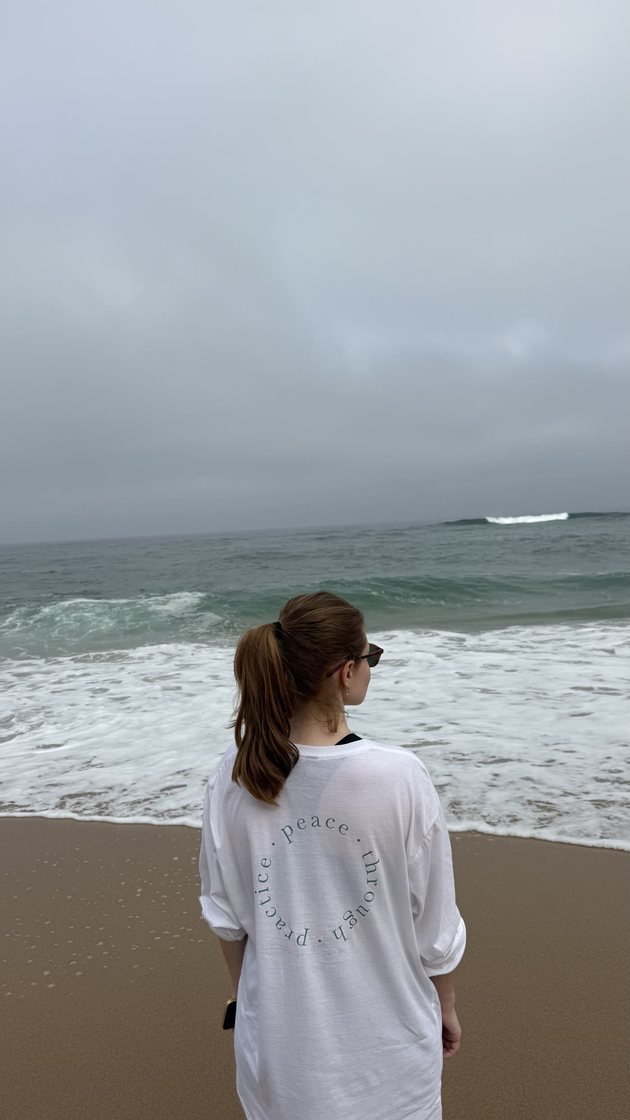
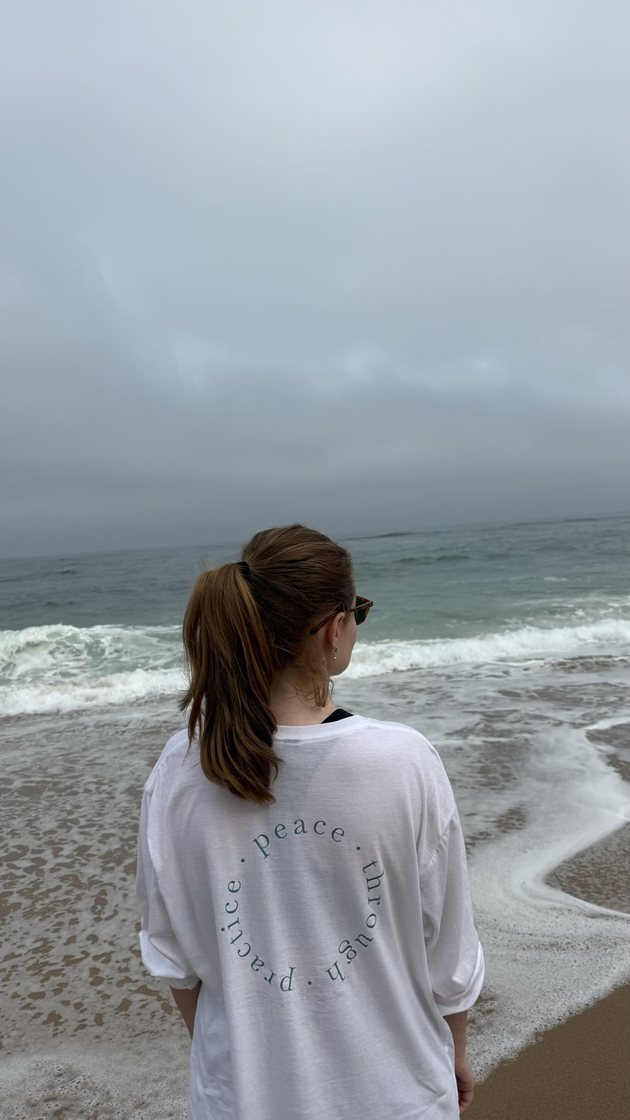
Give the words of the drop a page of their own
Moved into the hero, the sentence that says why this thing exists turned
into an ordinary paragraph sitting next to a photograph: eighteen point
body text, four lines, nothing to make you slow down. It now stands on its
own between the hero and the range, centred, in twenty-eight point serif,
with air around it. The hero keeps the name, the date and the button.

The photo strip gets arrows, which also needed the frames to declare their
size: until the images arrived the browser measured the strip as empty and
switched the forward arrow off. The overcast frame is gone, and the two
photographs where the print colour is unmistakable moved into the cards they
belong to, sky and terracotta into dusty pink, sky and green into sage.

Claude-Session: https://claude.ai/code/session_01WcVUjmyndb5iyNbkciRmSY

diff --git a/merch.html b/merch.html
@@ -116,7 +116,8 @@
 
   /* ─ утверждение ─ */
   .statement{text-align:center;}
-  .statement p{font-family:Georgia,serif; font-size:25px; line-height:1.5; max-width:720px; margin:0 auto;}
+  .statement{padding:66px 0 62px;}
+  .statement p{font-family:Georgia,serif; font-size:28px; line-height:1.55; max-width:780px; margin:0 auto;}
 
   /* ─ как это работает ─ */
   .steps{display:grid; grid-template-columns:repeat(3,1fr); gap:18px; max-width:860px;}
@@ -158,13 +159,20 @@
   .linkbtn:hover{color:var(--soft);}
 
   /* ─ лента атмосферных кадров ─
-     листается вбок пальцем или трекпадом. первый кадр выровнен по колонке
-     сайта, а лента уезжает за край: так видно, что дальше есть ещё */
-  .feed{padding:20px 0 8px;}
+     листается вбок. первый кадр выровнен по колонке сайта, а лента уезжает
+     за край: так видно, что дальше есть ещё */
+  .feed{position:relative; padding:20px 0 8px;}
   .feed__track{display:flex; gap:14px; overflow-x:auto; scroll-snap-type:x proximity;
     padding:0 max(24px, calc((100% - 960px) / 2)); scrollbar-width:none; -ms-overflow-style:none;}
   .feed__track::-webkit-scrollbar{display:none;}
   .feed__track img{flex:none; height:560px; width:auto; display:block; scroll-snap-align:center;}
+  .feed__nav{position:absolute; top:50%; transform:translateY(-50%); z-index:2;
+    width:44px; height:44px; padding:0; cursor:pointer; border:1px solid var(--line);
+    background:rgba(251,250,248,.94); color:var(--ink); font:inherit; font-size:20px; line-height:1; transition:.2s;}
+  .feed__nav:hover{border-color:var(--ink);}
+  .feed__nav[disabled]{opacity:.2; cursor:default; border-color:var(--line);}
+  .feed__nav--prev{left:16px;}
+  .feed__nav--next{right:16px;}
 
   /* ─ окно с размерами ─ */
   .modal .modal__box--wide{max-width:960px;}
@@ -260,7 +268,7 @@
     .pgrid--1 .pcard{display:flex;}
     .pgrid--1 .pcard__img,.pgrid--1 .pcard__ph{min-height:0; aspect-ratio:4/5; border-right:none; border-bottom:1px solid var(--line);}
     .pgrid--1 .pcard__body{padding:26px 26px 28px;}
-    .statement p{font-size:21px;}
+    .statement p{font-size:22px;}
     .drawer{width:100%; border-left:none;}
   }
 </style>
@@ -298,16 +306,21 @@
      текст дропа стоит первым, как на последней странице спецификации -->
 <header class="phero"><div class="wrap">
   <div>
-  <div class="kicker">soft power merch · новый дроп</div>
-  <h1>peace<br>through practice</h1>
-  <p class="lead">этот лонгслив будет обнимать тебя всю осень. каждый день он будет напоминать тебе о том, что ежедневная практика и есть верный путь к твоему внутреннему спокойствию и устойчивости.</p>
-  <p class="until">предзаказ открыт до 5 сентября</p>
-  <a class="btn" href="#shop">предзаказ →</a>
+    <div class="kicker">soft power merch · новый дроп</div>
+    <h1>peace<br>through practice</h1>
+    <p class="until">предзаказ открыт до 5 сентября</p>
+    <a class="btn" href="#shop">предзаказ →</a>
   </div>
+
 
   <!-- ФОТО В ШАПКУ: чтобы поменять снимок, впиши другое имя файла из images/ -->
   <div><img class="phero__img" src="images/merch-longsleeve-hero.jpg" alt="лонгслив peace through practice"></div>
 </div></header>
+
+<!-- ── слова дропа: они и есть причина, по которой вещь существует ── -->
+<section class="statement"><div class="wrap">
+  <p>этот лонгслив будет обнимать тебя всю осень. каждый день он будет напоминать тебе о том, что ежедневная практика и есть верный путь к твоему внутреннему спокойствию и устойчивости.</p>
+</div></section>
 
 <div class="wrap"><hr class="hr"></div>
 
@@ -323,26 +336,27 @@
 <div class="wrap"><hr class="hr"></div>
 
 <!-- ── лента атмосферных кадров ──
-     листается вбок. чтобы добавить снимок, положи файл в images/
-     и допиши сюда строку: порядок в разметке и есть порядок в ленте -->
+     листается вбок пальцем, трекпадом или стрелками. чтобы добавить снимок,
+     положи файл в images/ и допиши сюда строку: порядок здесь и есть порядок в ленте -->
 <section class="feed" aria-label="фотографии дропа">
-  <div class="feed__track">
-  <img src="images/merch-feed-01.jpg" alt="лонгслив на лесной дороге" loading="lazy">
-  <img src="images/merch-feed-02.jpg" alt="лонгслив на берегу океана" loading="lazy">
-  <img src="images/merch-feed-03.jpg" alt="манжет с вышивкой soft power" loading="lazy">
-  <img src="images/merch-feed-04.jpg" alt="рукав лонгслива у лица, скала позади" loading="lazy">
-  <img src="images/merch-feed-05.jpg" alt="лонгслив у мшистого камня" loading="lazy">
-  <img src="images/merch-feed-06.jpg" alt="печать на фоне неба" loading="lazy">
-  <img src="images/merch-feed-07.jpg" alt="берег между скал" loading="lazy">
-  <img src="images/merch-feed-08.jpg" alt="печать peace through practice на просвет" loading="lazy">
-  <img src="images/merch-feed-09.jpg" alt="манжет через плечо" loading="lazy">
-  <img src="images/merch-feed-10.jpg" alt="печать крупным планом" loading="lazy">
-  <img src="images/merch-feed-11.jpg" alt="лонгслив, руки в стороны" loading="lazy">
-  <img src="images/merch-feed-12.jpg" alt="ткань и манжет на камне" loading="lazy">
-  <img src="images/merch-feed-13.jpg" alt="лонгслив на рассветном берегу" loading="lazy">
-  <img src="images/merch-feed-14.jpg" alt="пасмурный океан" loading="lazy">
-  <img src="images/merch-feed-15.jpg" alt="лонгслив со спины у воды" loading="lazy">
+  <div class="feed__track" id="feedTrack">
+    <img src="images/merch-feed-01.jpg" alt="лонгслив на лесной дороге" width="630" height="1120" loading="lazy">
+    <img src="images/merch-feed-02.jpg" alt="лонгслив на берегу океана" width="630" height="1120" loading="lazy">
+    <img src="images/merch-feed-03.jpg" alt="манжет с вышивкой soft power" width="630" height="1120" loading="lazy">
+    <img src="images/merch-feed-04.jpg" alt="рукав лонгслива у лица, скала позади" width="630" height="1120" loading="lazy">
+    <img src="images/merch-feed-05.jpg" alt="лонгслив у мшистого камня" width="630" height="1120" loading="lazy">
+    <img src="images/merch-feed-06.jpg" alt="печать на фоне неба" width="630" height="1120" loading="lazy">
+    <img src="images/merch-feed-07.jpg" alt="берег между скал" width="630" height="1120" loading="lazy">
+    <img src="images/merch-feed-08.jpg" alt="печать peace through practice на просвет" width="630" height="1120" loading="lazy">
+    <img src="images/merch-feed-09.jpg" alt="манжет через плечо" width="630" height="1120" loading="lazy">
+    <img src="images/merch-feed-10.jpg" alt="печать крупным планом" width="630" height="1120" loading="lazy">
+    <img src="images/merch-feed-11.jpg" alt="лонгслив, руки в стороны" width="630" height="1120" loading="lazy">
+    <img src="images/merch-feed-12.jpg" alt="ткань и манжет на камне" width="630" height="1120" loading="lazy">
+    <img src="images/merch-feed-13.jpg" alt="лонгслив на рассветном берегу" width="630" height="1120" loading="lazy">
+    <img src="images/merch-feed-14.jpg" alt="лонгслив со спины у воды" width="630" height="1120" loading="lazy">
   </div>
+  <button class="feed__nav feed__nav--prev" id="feedPrev" type="button" aria-label="назад">‹</button>
+  <button class="feed__nav feed__nav--next" id="feedNext" type="button" aria-label="вперёд">›</button>
 </section>
 
 <!-- ── условия предзаказа ── -->
@@ -443,6 +457,25 @@
     closeBtn.addEventListener("click", hideMenu);
     mnav.querySelectorAll("a").forEach(function(a){ a.addEventListener("click", hideMenu); });
     document.addEventListener("keydown", function(e){ if(e.key==="Escape") hideMenu(); });
+  })();
+
+
+  /* стрелки у ленты фотографий: двигают её почти на экран и гаснут по краям */
+  (function(){
+    var track=document.getElementById('feedTrack'),
+        prev=document.getElementById('feedPrev'), next=document.getElementById('feedNext');
+    if(!track||!prev||!next) return;
+    function step(){ return Math.round(track.clientWidth * 0.8); }
+    function edges(){
+      prev.disabled = track.scrollLeft < 8;
+      next.disabled = track.scrollLeft > track.scrollWidth - track.clientWidth - 8;
+    }
+    prev.addEventListener('click', function(){ track.scrollBy({left:-step(), behavior:'smooth'}); });
+    next.addEventListener('click', function(){ track.scrollBy({left: step(), behavior:'smooth'}); });
+    track.addEventListener('scroll', edges);
+    window.addEventListener('resize', edges);
+    window.addEventListener('load', edges);   /* картинки могли ещё не приехать */
+    edges();
   })();
 
   /* окно с размерами: открывается ссылкой в витрине */

diff --git a/merch-en.html b/merch-en.html
@@ -116,7 +116,8 @@
 
   /* ─ утверждение ─ */
   .statement{text-align:center;}
-  .statement p{font-family:Georgia,serif; font-size:25px; line-height:1.5; max-width:720px; margin:0 auto;}
+  .statement{padding:66px 0 62px;}
+  .statement p{font-family:Georgia,serif; font-size:28px; line-height:1.55; max-width:780px; margin:0 auto;}
 
   /* ─ как это работает ─ */
   .steps{display:grid; grid-template-columns:repeat(3,1fr); gap:18px; max-width:860px;}
@@ -158,13 +159,20 @@
   .linkbtn:hover{color:var(--soft);}
 
   /* ─ лента атмосферных кадров ─
-     листается вбок пальцем или трекпадом. первый кадр выровнен по колонке
-     сайта, а лента уезжает за край: так видно, что дальше есть ещё */
-  .feed{padding:20px 0 8px;}
+     листается вбок. первый кадр выровнен по колонке сайта, а лента уезжает
+     за край: так видно, что дальше есть ещё */
+  .feed{position:relative; padding:20px 0 8px;}
   .feed__track{display:flex; gap:14px; overflow-x:auto; scroll-snap-type:x proximity;
     padding:0 max(24px, calc((100% - 960px) / 2)); scrollbar-width:none; -ms-overflow-style:none;}
   .feed__track::-webkit-scrollbar{display:none;}
   .feed__track img{flex:none; height:560px; width:auto; display:block; scroll-snap-align:center;}
+  .feed__nav{position:absolute; top:50%; transform:translateY(-50%); z-index:2;
+    width:44px; height:44px; padding:0; cursor:pointer; border:1px solid var(--line);
+    background:rgba(251,250,248,.94); color:var(--ink); font:inherit; font-size:20px; line-height:1; transition:.2s;}
+  .feed__nav:hover{border-color:var(--ink);}
+  .feed__nav[disabled]{opacity:.2; cursor:default; border-color:var(--line);}
+  .feed__nav--prev{left:16px;}
+  .feed__nav--next{right:16px;}
 
   /* ─ окно с размерами ─ */
   .modal .modal__box--wide{max-width:960px;}
@@ -260,7 +268,7 @@
     .pgrid--1 .pcard{display:flex;}
     .pgrid--1 .pcard__img,.pgrid--1 .pcard__ph{min-height:0; aspect-ratio:4/5; border-right:none; border-bottom:1px solid var(--line);}
     .pgrid--1 .pcard__body{padding:26px 26px 28px;}
-    .statement p{font-size:21px;}
+    .statement p{font-size:22px;}
     .drawer{width:100%; border-left:none;}
   }
 </style>
@@ -296,16 +304,21 @@
 <!-- ── hero ── -->
 <header class="phero"><div class="wrap">
   <div>
-  <div class="kicker">soft power merch · new drop</div>
-  <h1>peace<br>through practice</h1>
-  <p class="lead">this long sleeve will hold you through the whole autumn. every day it will remind you that a daily practice is the surest way to your own calm and steadiness.</p>
-  <p class="until">pre-order is open till 5 september</p>
-  <a class="btn" href="#shop">pre-order →</a>
+    <div class="kicker">soft power merch · new drop</div>
+    <h1>peace<br>through practice</h1>
+    <p class="until">pre-order is open till 5 september</p>
+    <a class="btn" href="#shop">pre-order →</a>
   </div>
+
 
   <!-- ФОТО В ШАПКУ: чтобы поменять снимок, впиши другое имя файла из images/ -->
   <div><img class="phero__img" src="images/merch-longsleeve-hero.jpg" alt="peace through practice long sleeve"></div>
 </div></header>
+
+<!-- ── слова дропа ── -->
+<section class="statement"><div class="wrap">
+  <p>this long sleeve will hold you through the whole autumn. every day it will remind you that a daily practice is the surest way to your own calm and steadiness.</p>
+</div></section>
 
 <div class="wrap"><hr class="hr"></div>
 
@@ -319,26 +332,27 @@
 <div class="wrap"><hr class="hr"></div>
 
 <!-- ── лента атмосферных кадров ──
-     листается вбок. чтобы добавить снимок, положи файл в images/
-     и допиши сюда строку: порядок в разметке и есть порядок в ленте -->
+     листается вбок пальцем, трекпадом или стрелками. чтобы добавить снимок,
+     положи файл в images/ и допиши сюда строку: порядок здесь и есть порядок в ленте -->
 <section class="feed" aria-label="photos of the drop">
-  <div class="feed__track">
-  <img src="images/merch-feed-01.jpg" alt="the long sleeve on a forest path" loading="lazy">
-  <img src="images/merch-feed-02.jpg" alt="the long sleeve by the ocean" loading="lazy">
-  <img src="images/merch-feed-03.jpg" alt="the cuff with the soft power embroidery" loading="lazy">
-  <img src="images/merch-feed-04.jpg" alt="a sleeve held up, a cliff behind" loading="lazy">
-  <img src="images/merch-feed-05.jpg" alt="the long sleeve by a mossy rock" loading="lazy">
-  <img src="images/merch-feed-06.jpg" alt="the print against the sky" loading="lazy">
-  <img src="images/merch-feed-07.jpg" alt="the shore between the rocks" loading="lazy">
-  <img src="images/merch-feed-08.jpg" alt="the peace through practice print held to the light" loading="lazy">
-  <img src="images/merch-feed-09.jpg" alt="the cuff over a shoulder" loading="lazy">
-  <img src="images/merch-feed-10.jpg" alt="the print up close" loading="lazy">
-  <img src="images/merch-feed-11.jpg" alt="the long sleeve, arms wide" loading="lazy">
-  <img src="images/merch-feed-12.jpg" alt="the fabric and the cuff on a rock" loading="lazy">
-  <img src="images/merch-feed-13.jpg" alt="the long sleeve on the shore at dawn" loading="lazy">
-  <img src="images/merch-feed-14.jpg" alt="an overcast ocean" loading="lazy">
-  <img src="images/merch-feed-15.jpg" alt="the long sleeve from behind by the water" loading="lazy">
+  <div class="feed__track" id="feedTrack">
+    <img src="images/merch-feed-01.jpg" alt="the long sleeve on a forest path" width="630" height="1120" loading="lazy">
+    <img src="images/merch-feed-02.jpg" alt="the long sleeve by the ocean" width="630" height="1120" loading="lazy">
+    <img src="images/merch-feed-03.jpg" alt="the cuff with the soft power embroidery" width="630" height="1120" loading="lazy">
+    <img src="images/merch-feed-04.jpg" alt="a sleeve held up, a cliff behind" width="630" height="1120" loading="lazy">
+    <img src="images/merch-feed-05.jpg" alt="the long sleeve by a mossy rock" width="630" height="1120" loading="lazy">
+    <img src="images/merch-feed-06.jpg" alt="the print against the sky" width="630" height="1120" loading="lazy">
+    <img src="images/merch-feed-07.jpg" alt="the shore between the rocks" width="630" height="1120" loading="lazy">
+    <img src="images/merch-feed-08.jpg" alt="the peace through practice print held to the light" width="630" height="1120" loading="lazy">
+    <img src="images/merch-feed-09.jpg" alt="the cuff over a shoulder" width="630" height="1120" loading="lazy">
+    <img src="images/merch-feed-10.jpg" alt="the print up close" width="630" height="1120" loading="lazy">
+    <img src="images/merch-feed-11.jpg" alt="the long sleeve, arms wide" width="630" height="1120" loading="lazy">
+    <img src="images/merch-feed-12.jpg" alt="the fabric and the cuff on a rock" width="630" height="1120" loading="lazy">
+    <img src="images/merch-feed-13.jpg" alt="the long sleeve on the shore at dawn" width="630" height="1120" loading="lazy">
+    <img src="images/merch-feed-14.jpg" alt="the long sleeve from behind by the water" width="630" height="1120" loading="lazy">
   </div>
+  <button class="feed__nav feed__nav--prev" id="feedPrev" type="button" aria-label="back">‹</button>
+  <button class="feed__nav feed__nav--next" id="feedNext" type="button" aria-label="forward">›</button>
 </section>
 
 <!-- ── условия предзаказа ── -->
@@ -438,6 +452,25 @@
     closeBtn.addEventListener("click", hideMenu);
     mnav.querySelectorAll("a").forEach(function(a){ a.addEventListener("click", hideMenu); });
     document.addEventListener("keydown", function(e){ if(e.key==="Escape") hideMenu(); });
+  })();
+
+
+  /* стрелки у ленты фотографий: двигают её почти на экран и гаснут по краям */
+  (function(){
+    var track=document.getElementById('feedTrack'),
+        prev=document.getElementById('feedPrev'), next=document.getElementById('feedNext');
+    if(!track||!prev||!next) return;
+    function step(){ return Math.round(track.clientWidth * 0.8); }
+    function edges(){
+      prev.disabled = track.scrollLeft < 8;
+      next.disabled = track.scrollLeft > track.scrollWidth - track.clientWidth - 8;
+    }
+    prev.addEventListener('click', function(){ track.scrollBy({left:-step(), behavior:'smooth'}); });
+    next.addEventListener('click', function(){ track.scrollBy({left: step(), behavior:'smooth'}); });
+    track.addEventListener('scroll', edges);
+    window.addEventListener('resize', edges);
+    window.addEventListener('load', edges);   /* картинки могли ещё не приехать */
+    edges();
   })();
 
   /* окно с размерами: открывается ссылкой в витрине */

diff --git a/js/merch-catalog.js b/js/merch-catalog.js
@@ -62,7 +62,11 @@ var MERCH_CATALOG = [
     price: 108,
     photo: 'images/merch-longsleeve-pink.jpg',
     /* спереди вещь у всех цветов одна и та же, манжет розовый только здесь */
-    gallery: ['images/merch-longsleeve-front.jpg', 'images/merch-longsleeve-cuff.jpg'],
+    gallery: [
+      'images/merch-longsleeve-pink-2.jpg',
+      'images/merch-longsleeve-front.jpg',
+      'images/merch-longsleeve-cuff.jpg'
+    ],
     hidden: false,
     sold_out: false,
     ru: { title: 'лонгслив dusty pink', desc: LONGSLEEVE.ru.desc, note: LONGSLEEVE.ru.note },
@@ -74,7 +78,7 @@ var MERCH_CATALOG = [
     id: 'longsleeve-sage',
     price: 108,
     photo: 'images/merch-longsleeve-sage.jpg',
-    gallery: ['images/merch-longsleeve-front.jpg'],
+    gallery: ['images/merch-longsleeve-sage-2.jpg', 'images/merch-longsleeve-front.jpg'],
     hidden: false,
     sold_out: false,
     ru: { title: 'лонгслив sage', desc: LONGSLEEVE.ru.desc, note: LONGSLEEVE.ru.note },
